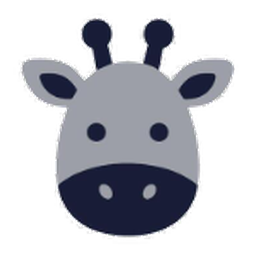
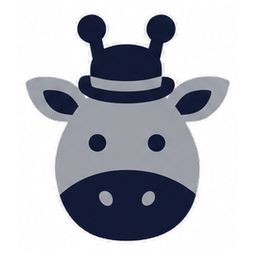
Perfiles con sombrero, de la nueva lámina
Mismos animales y fondos pastel. Solo cambian los dibujos.

diff --git a/src/components/pos/animal-avatar.tsx b/src/components/pos/animal-avatar.tsx
@@ -8,7 +8,7 @@ export function AnimalMark({ animal, className }: { animal: string; className?: 
   const kind = parseAnimal(animal);
   return (
     <img
-      src={`/animals/${kind}.png`}
+      src={`/animals/${kind}.png?v=2`}
       alt=""
       draggable={false}
       className={cn("size-full object-contain", className)}
